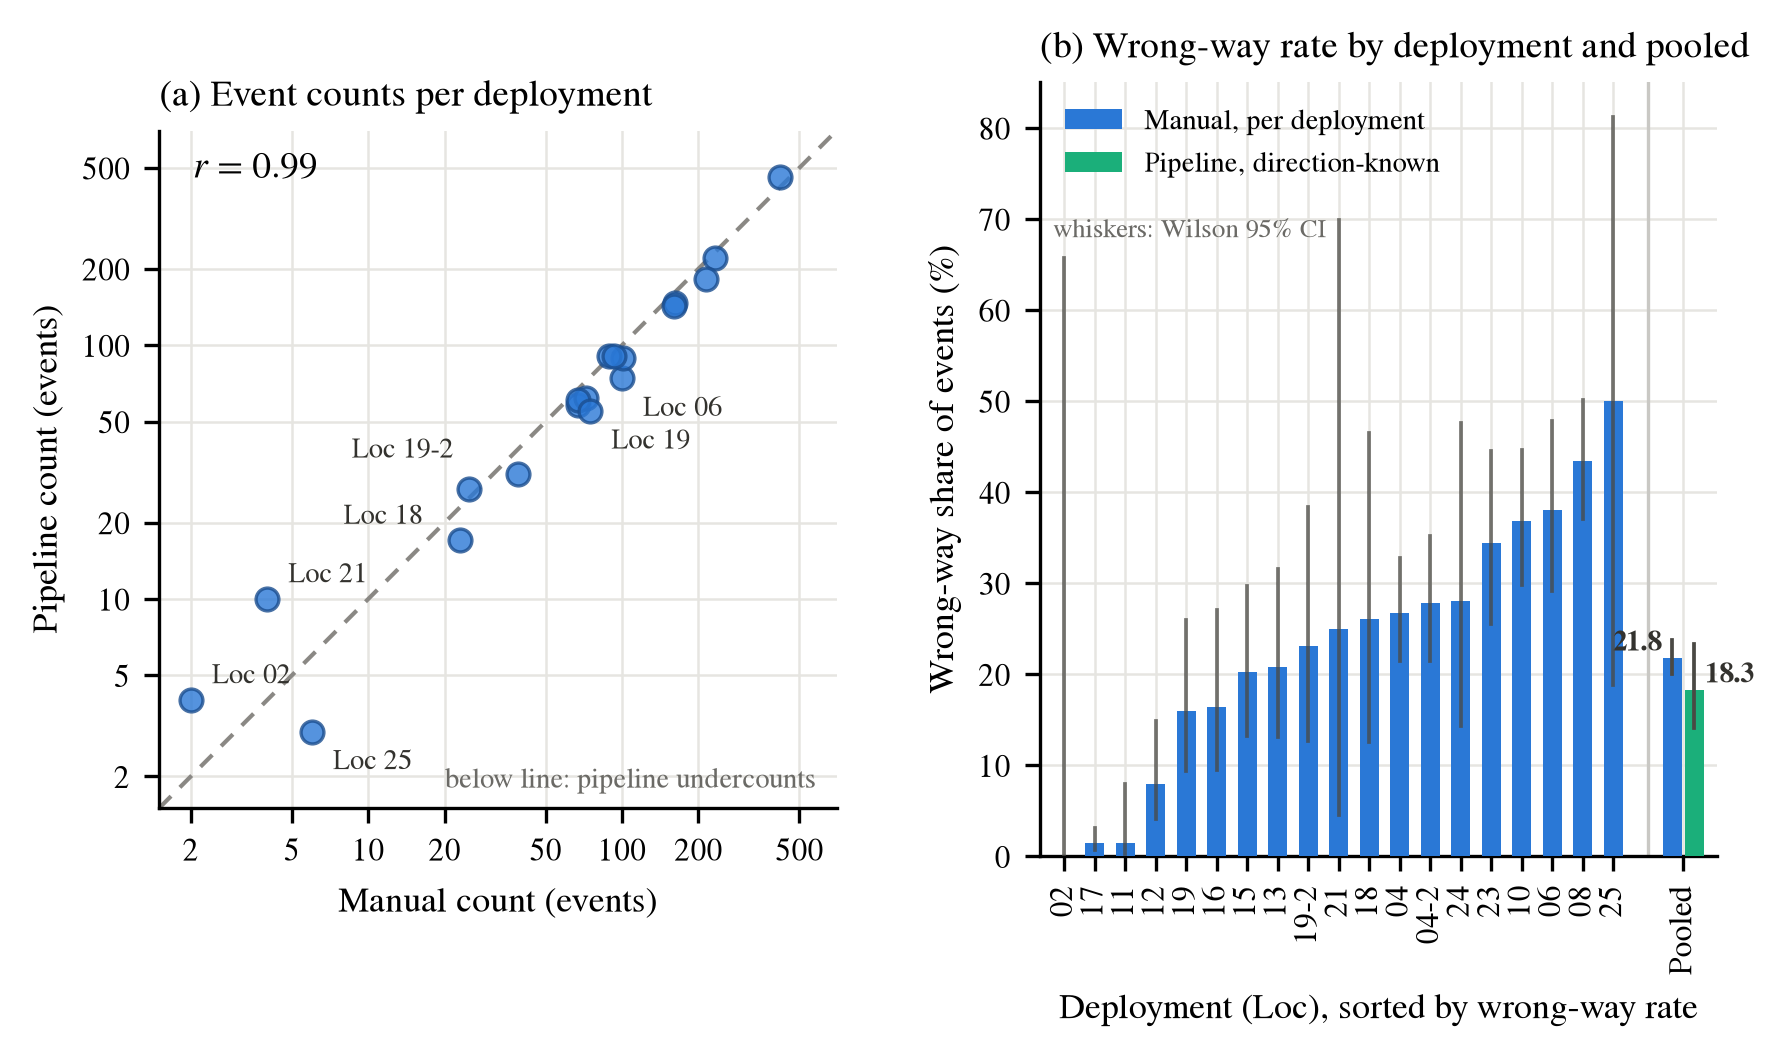
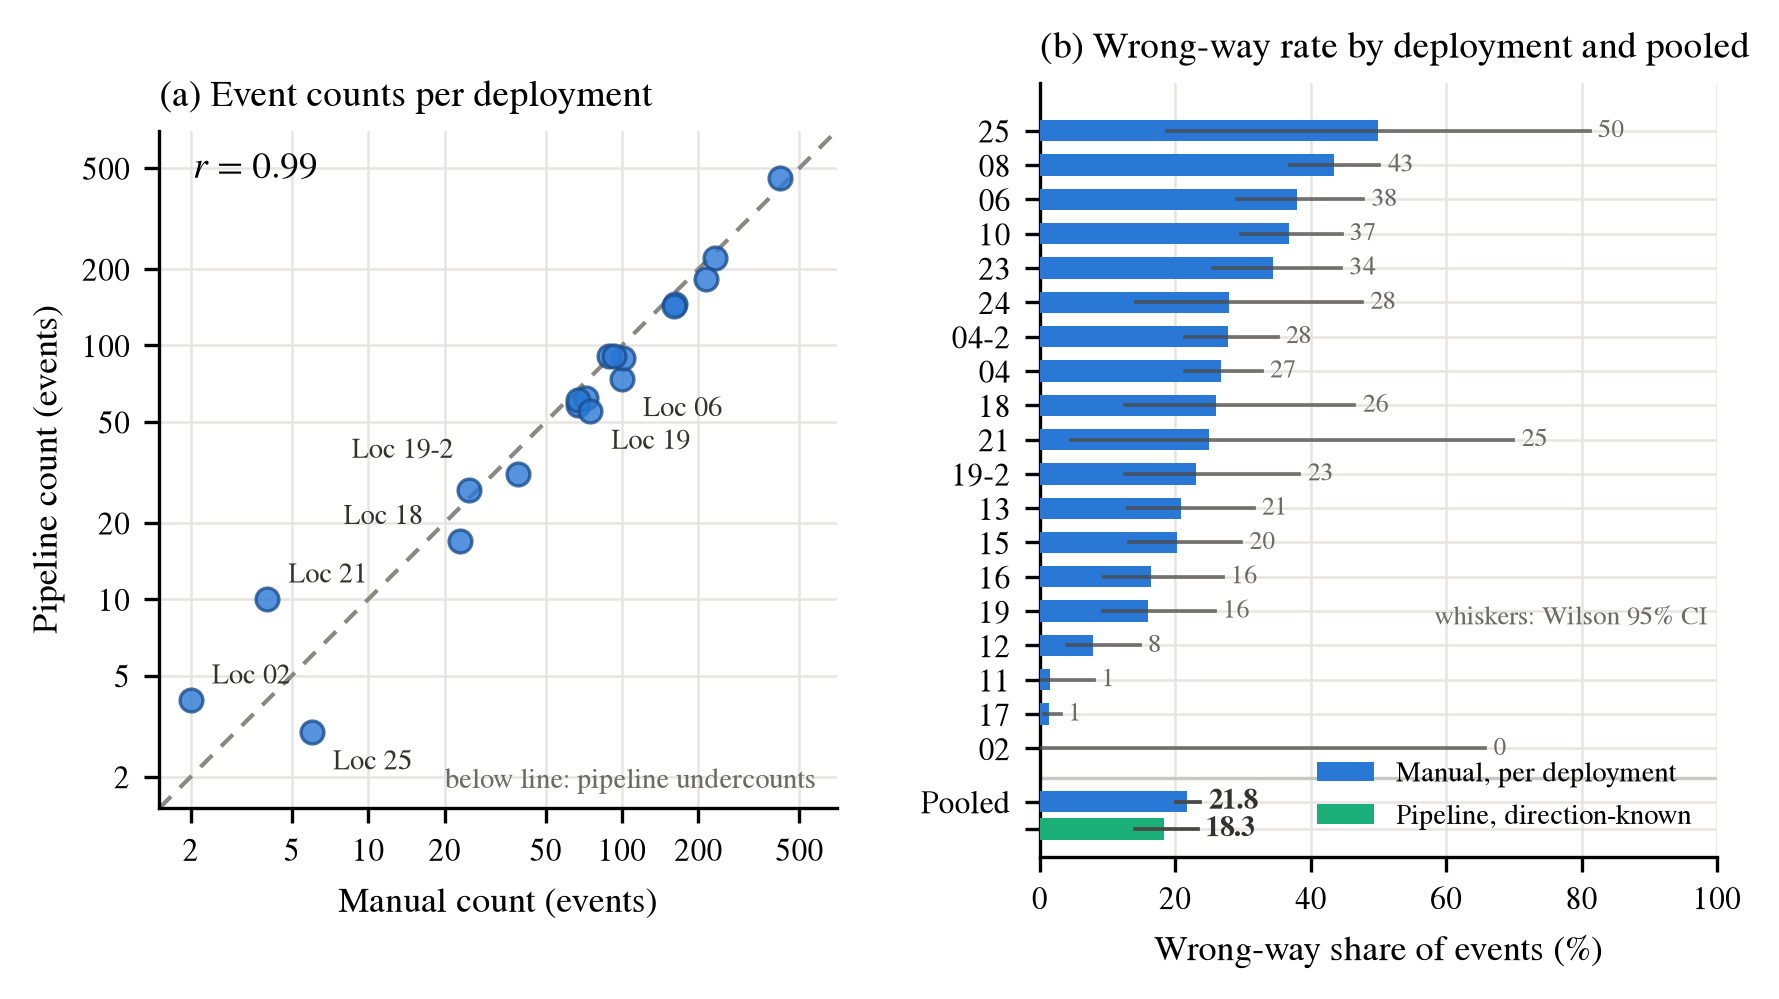
Panel (b) goes horizontal with value labels
Nineteen deployment rows sorted by manual wrong-way rate, value at
each whisker end, and the pooled manual-versus-pipeline pair (21.8 vs
18.3 percent) beneath a divider.

diff --git a/paper/make_figs_v3.py b/paper/make_figs_v3.py
@@ -105,42 +105,41 @@ def fig_validation(rows, out):
     ax1.set_ylabel("Pipeline count (events)", fontsize=8.5)
     ax1.set_title("(a) Event counts per deployment", fontsize=9, loc="left")
 
-    # (b) per-deployment manual wrong-way rates (all 19), then the pooled
-    # manual-vs-pipeline comparison at the right.
+    # (b) horizontal: manual wrong-way rate per deployment (all 19, with
+    # value labels), pooled manual-vs-pipeline pair at the bottom.
     per = sorted(rows, key=lambda r: r["ww_total"] / r["total"])
-    xs_b = np.arange(len(per))
+    ys_b = np.arange(len(per)) + 2.6
     vals = [100 * r["ww_total"] / r["total"] for r in per]
-    ax2.bar(xs_b, vals, width=0.62, color=BLUE, zorder=3,
-            label="Manual, per deployment")
-    for x, r in zip(xs_b, per):
+    ax2.barh(ys_b, vals, height=0.62, color=BLUE, zorder=3,
+             label="Manual, per deployment")
+    for y, r, v in zip(ys_b, per, vals):
         lo, hi = wilson_ci(r["ww_total"], r["total"])
-        ax2.plot([x, x], [lo * 100, hi * 100], color="#4a4944", lw=0.9,
+        ax2.plot([lo * 100, hi * 100], [y, y], color="#4a4944", lw=0.9,
                  alpha=0.75, zorder=4)
-    xp = len(per) + 1.3
-    ax2.axvline(len(per) + 0.15, color="#c9c8c4", lw=0.8, zorder=2)
+        ax2.text(hi * 100 + 1.2, y, f"{v:.0f}", va="center", fontsize=6.2,
+                 color=MUTED)
+    ax2.axhline(1.75, color="#c9c8c4", lw=0.8, zorder=2)
     m_lo, m_hi = wilson_ci(426, 1951)
     p_lo, p_hi = wilson_ci(49, 268)
-    ax2.bar(xp - 0.36, 21.8, width=0.62, color=BLUE, zorder=3)
-    ax2.bar(xp + 0.36, 18.3, width=0.62, color=GREEN, zorder=3,
-            label="Pipeline, direction-known")
-    ax2.plot([xp - 0.36] * 2, [m_lo * 100, m_hi * 100], color="#4a4944",
+    ax2.barh(1.05, 21.8, height=0.62, color=BLUE, zorder=3)
+    ax2.barh(0.25, 18.3, height=0.62, color=GREEN, zorder=3,
+             label="Pipeline, direction-known")
+    ax2.plot([m_lo * 100, m_hi * 100], [1.05, 1.05], color="#4a4944",
              lw=0.9, zorder=4)
-    ax2.plot([xp + 0.36] * 2, [p_lo * 100, p_hi * 100], color="#4a4944",
+    ax2.plot([p_lo * 100, p_hi * 100], [0.25, 0.25], color="#4a4944",
              lw=0.9, zorder=4)
-    ax2.text(xp - 0.72, 22.6, "21.8", ha="right", fontsize=6.8,
+    ax2.text(m_hi * 100 + 1.2, 1.05, "21.8", va="center", fontsize=6.8,
              fontweight="bold", color=INK)
-    ax2.text(xp + 0.72, 19.1, "18.3", ha="left", fontsize=6.8,
+    ax2.text(p_hi * 100 + 1.2, 0.25, "18.3", va="center", fontsize=6.8,
              fontweight="bold", color=INK)
-    ticks = list(xs_b) + [xp]
-    labels = [r["loc"] for r in per] + ["Pooled"]
-    ax2.set_xticks(ticks, labels, fontsize=6.0, rotation=90)
-    ax2.set_xlim(-0.8, xp + 1.1)
-    ax2.set_ylim(0, 85)
-    ax2.set_ylabel("Wrong-way share of events (%)", fontsize=8.5)
-    ax2.set_xlabel("Deployment (Loc), sorted by wrong-way rate", fontsize=8.5)
-    ax2.legend(fontsize=6.8, frameon=False, loc="upper left")
-    ax2.text(0.02, 0.80, "whiskers: Wilson 95% CI",
-             transform=ax2.transAxes, fontsize=6.4, color=MUTED)
+    ax2.set_yticks(list(ys_b) + [1.05, 0.25],
+                   [r["loc"] for r in per] + ["Pooled", ""], fontsize=6.4)
+    ax2.set_xlim(0, 100)
+    ax2.set_ylim(-0.55, len(per) + 3.0)
+    ax2.set_xlabel("Wrong-way share of events (%)", fontsize=8.5)
+    ax2.legend(fontsize=6.8, frameon=False, loc="lower right")
+    ax2.text(0.985, 0.30, "whiskers: Wilson 95% CI",
+             transform=ax2.transAxes, fontsize=6.4, color=MUTED, ha="right")
     ax2.set_title("(b) Wrong-way rate by deployment and pooled",
                   fontsize=9, loc="left")
 
